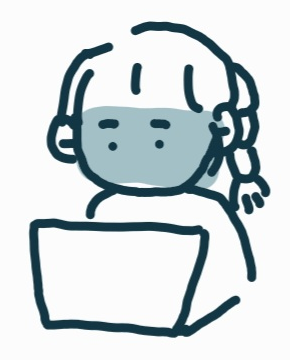
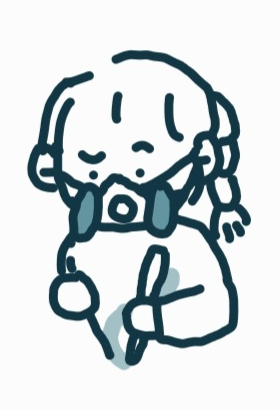
대장장이 그림을 납땜하는 모습으로, 결과 화면 버튼 이름을 '이 아이디어 직접 만들어 보기'로
Claude-Session: https://claude.ai/code/session_01WjdEFsaTPx9PgsdKqemoJs

diff --git a/apps/web/app/find/find-flow.tsx b/apps/web/app/find/find-flow.tsx
@@ -393,7 +393,7 @@ function Reveal({ result, picked, find, idea, maker, onShare, onAgain, onMore, o
           <div className="muted small">최고 화력 <span className="display ink" style={{ fontSize: 20 }}>{fire.peak}</span> · {fireLabel(fire.peak)}</div>
         </div>
       )}
-      <button className="btn btn-fire next-top" type="button" onClick={() => { track("about_from_top"); onForge(); }}>이 아이디어, 진짜로 만들어 보기 →</button>
+      <button className="btn btn-fire next-top" type="button" onClick={() => { track("about_from_top"); onForge(); }}>이 아이디어 직접 만들어 보기 →</button>
       <div className="note">
         <div className="tiny muted">도깨비가 받아 적은 설계 한 줄</div>
         <div className="sentence">“{idea.trim()}”{"\n"}{fire.sentence}</div>
@@ -450,9 +450,9 @@ function Reveal({ result, picked, find, idea, maker, onShare, onAgain, onMore, o
       <div className="next-card">
         <b>이 카드는 아직 스케치야.</b>
         <span>달그락 대장간에서는 이걸 3D로 미리 보고, 부품 목록·회로·출력 파일로 만들어서 네 손으로 조립하게 도와줘.</span>
-        <button className="btn btn-fire" type="button" onClick={() => { track(forge?.isNew ? "forge_created" : "forge_open"); onForge(); }}>진짜로 만들어 보기 →</button>
+        <button className="btn btn-fire" type="button" onClick={() => { track(forge?.isNew ? "forge_created" : "forge_open"); onForge(); }}>이 아이디어 직접 만들어 보기 →</button>
       </div>
-      <div className="next-bar"><span>이 아이디어, 진짜로 만들 수 있어</span><button className="btn btn-fire" type="button" onClick={() => { track("about_from_bar"); onForge(); }}>달그락 대장간이 뭐예요? →</button></div>
+      <div className="next-bar"><span>달그락 대장간이 어떻게 도와주는지 볼래?</span><button className="btn btn-fire" type="button" onClick={() => { track("about_from_bar"); onForge(); }}>이 아이디어 직접 만들어 보기 →</button></div>
       <div className="two">
         <button className="btn btn-ghost" type="button" onClick={onShare}>카드 저장·공유</button>
         <button className="btn btn-ghost" type="button" onClick={onAgain}>다시 피우기</button>

diff --git a/apps/web/app/find/about/about-view.tsx b/apps/web/app/find/about/about-view.tsx
@@ -80,7 +80,7 @@ export default function AboutView({ joinUrl, seed, token, contact }: { joinUrl: 
 
     <section>
       <Reveal kind="pop"><div className="maker-note">
-        <div className="smith"><img src="/find/smith.webp" alt="노트북으로 작업하는 대장장이 1dyne 그림" /><div><b>대장장이 1dyne</b><small>달그락 대장간과 달그락 마을을 만들고 지키는 사람</small></div></div>
+        <div className="smith"><img src="/find/smith.webp" alt="마스크를 쓰고 납땜하는 대장장이 1dyne 그림" /><div><b>대장장이 1dyne</b><small>달그락 대장간과 달그락 마을을 만들고 지키는 사람</small></div></div>
         <p>AI와 대화하면서 처음으로 하드웨어를 만든 문과생 메이커예요. 그때 가장 힘들었던 건 회로가 아니라 <b>“지금 뭘 해야 하는지”</b>였어요. 그래서 그 길을 그대로 옮겨 달그락 대장간을 만들었어요.</p>
         <p className="contact">궁금한 것, 막히는 것, 같이 해보고 싶은 것은 <a href={`mailto:${contact}`}>{contact}</a> 으로 보내 주세요.</p>
       </div></Reveal>
